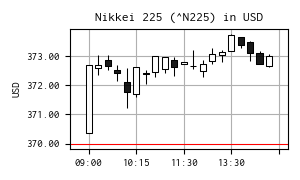
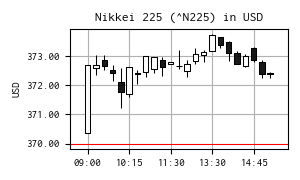
update

diff --git a/modules/kabuto.py b/modules/kabuto.py
@@ -161,6 +161,7 @@ class Kabuto(QMainWindow):
         toolbar.clickedPlay.connect(self.on_review_play)
         toolbar.clickedStop.connect(self.on_review_stop)
         toolbar.clickedTransaction.connect(self.on_show_transaction)
+        toolbar.requestSwicthCharts.connect(self.on_switch_charts)
         toolbar.selectedExcelFile.connect(self.on_create_thread_review)
         self.addToolBar(toolbar)
         # ---------------------------------------------------------------------
@@ -495,6 +496,12 @@ class Kabuto(QMainWindow):
         self.win_transaction = WinTransaction(self.res, self.df_transaction)
         self.win_transaction.show()
 
+    def on_switch_charts(self, state: bool):
+        for code in self.dict_trader.keys():
+            trader: Trader = self.dict_trader[code]
+            trader.switchChartType(state)
+
+
     def on_thread_finished(self, result: bool) -> None:
         """
         スレッド終了時のログ
@@ -605,7 +612,7 @@ class Kabuto(QMainWindow):
         :return:
         """
         trader: Trader = self.dict_trader[code]
-        #trader.dock.update_trading_buttons_status(status)
+        # trader.dock.update_trading_buttons_status(status)
         # 発注確認結果
         trader.sendOrderExecutionResult(status)
 

diff --git a/modules/dock.py b/modules/dock.py
@@ -63,13 +63,6 @@ class DockTrader(DockWidget):
         panel_option.changedDisparity.connect(self.disparity_changed)
         self.layout.addWidget(panel_option)
 
-    def changeDisparityStatus(self, state: bool) -> None:
-        """
-        Disparity スイッチの状態変更
-        :param state:
-        :return:
-        """
-        self.panel_option.disparity.set(state)
 
     def force_repay(self) -> None:
         """
@@ -78,6 +71,14 @@ class DockTrader(DockWidget):
         """
         if self.doRepay():
             self.logger.info(f"{__name__}: '{self.code}'の強制返済をしました。")
+
+    def force_switch_chart_type(self, state: bool) -> None:
+        """
+        Disparity スイッチの状態変更
+        :param state:
+        :return:
+        """
+        self.panel_option.disparity.set(state)
 
     def on_buy(self) -> None:
         """

diff --git a/modules/trader.py b/modules/trader.py
@@ -126,14 +126,6 @@ class Trader(QMainWindow):
         #
         # _/_/_/_/_/_/_/_/_/_/_/_/_/_/_/_/_/_/_/_/_/_/_/_/_/_/_/_/_/_/_/_/_/_/_
 
-    def changeDisparityStatus(self, state: bool) -> None:
-        """
-        ドックの Disparity スイッチの状態変更
-        :param state:
-        :return:
-        """
-        self.dock.changedDisparityState(state)
-
     def closeEvent(self, event: QCloseEvent) -> None:
         """
         ウィンドウを閉じる際のクリーンアップ処理
@@ -397,6 +389,9 @@ class Trader(QMainWindow):
 
         # y 軸のスケールを更新
         self.trend.updateYAxisRange(flag)
+
+    def switchChartType(self, flag: bool) -> None:
+        self.dock.force_switch_chart_type(flag)
 
     def update_technicals(self, flag: bool) -> None:
         if flag:

diff --git a/modules/toolbar.py b/modules/toolbar.py
@@ -26,6 +26,7 @@ class ToolBar(QToolBar):
     clickedPlay = Signal()
     clickedStop = Signal()
     clickedTransaction = Signal()
+    requestSwicthCharts = Signal(bool)
     selectedExcelFile = Signal(str, list)
 
     def __init__(self, res: AppRes):
@@ -117,6 +118,7 @@ class ToolBar(QToolBar):
 
         self.switch = switch = Switch()
         switch.set(False)
+        switch.statusChanged.connect(self.requestSwicthCharts.emit)
         self.addWidget(switch)
 
         lab_time = Label("システム時刻 ")
